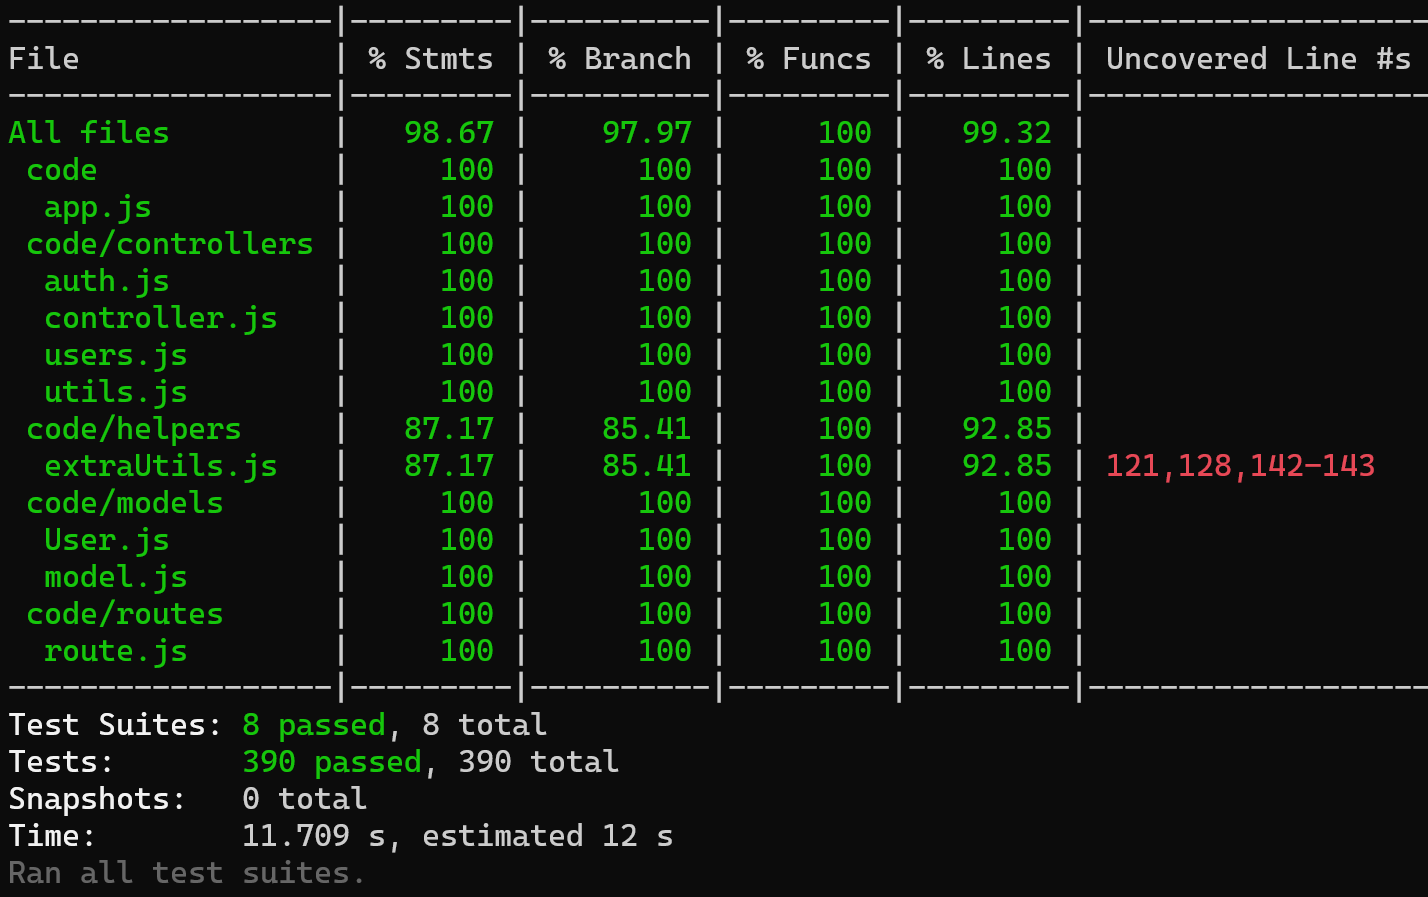
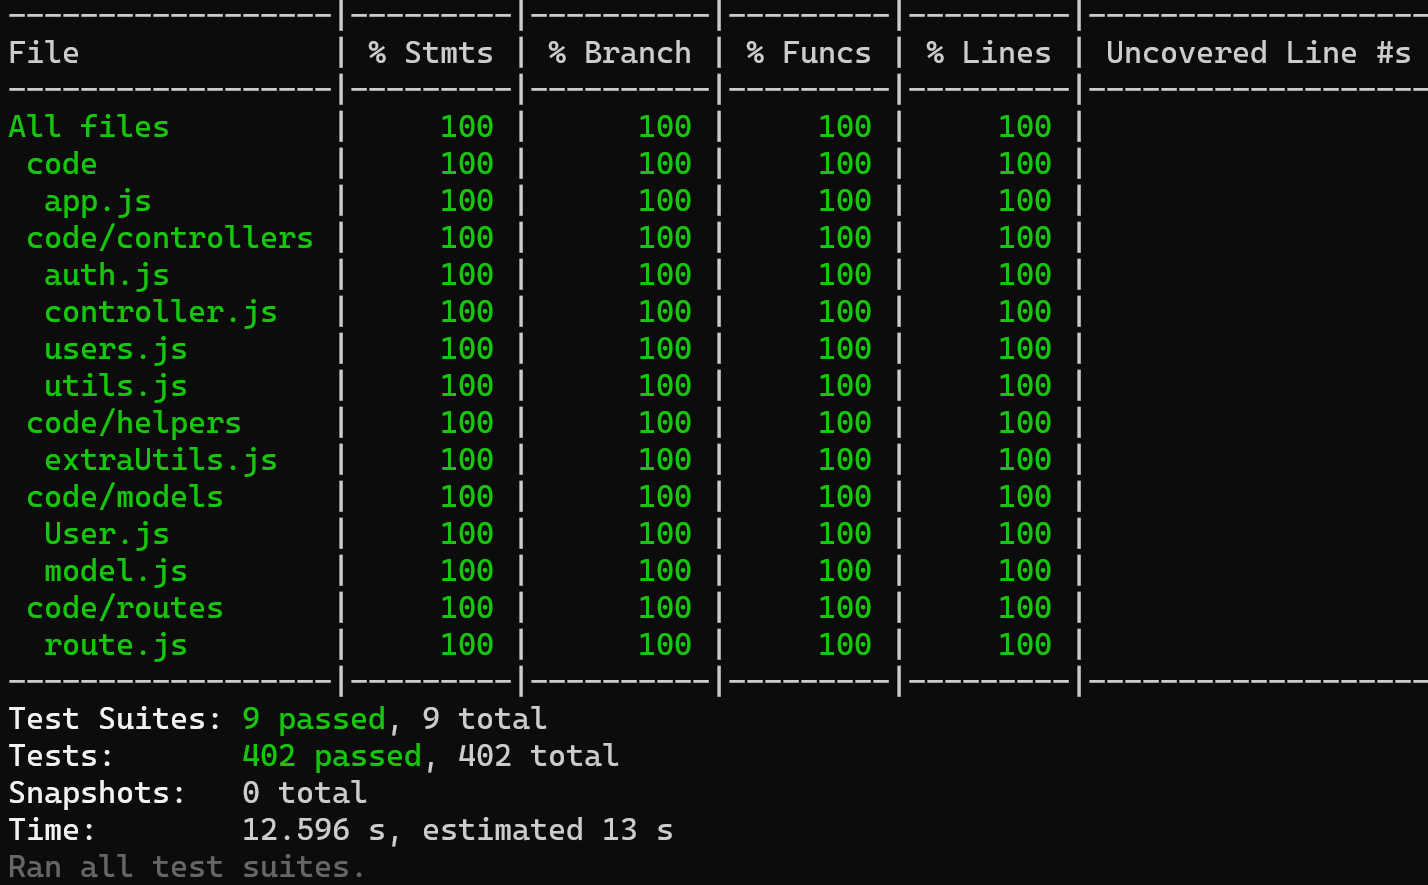
100 % coverage , updated screenshot

Changed region(s): [[0.0, 0.0, 1.0, 1.0], [0.7703, 0.4881, 0.9552, 0.5492]]

diff --git a/code/test/extraUtils.unit.test.js b/code/test/extraUtils.unit.test.js
@@ -1,0 +1,104 @@
+
+import "jest-extended"
+import { createValueTypeObject, validateValueType, validateValueTypes } from '../helpers/extraUtils.js'
+
+import validator from "validator";
+
+//jest.mock('validator');
+beforeAll(async () => {
+
+});
+
+afterAll(async () => {
+
+});
+
+//necessary setup to ensure that each test can insert the data it needs
+beforeEach(async () => {
+    jest.resetAllMocks();
+})
+afterEach(async () => {
+
+})
+describe("createValueTypeObject  ", () => {
+    test('should create the object', () => {
+        const result = createValueTypeObject()
+    });
+});
+
+describe("validateValueType ", () => {
+
+    test('should reject string validation for non string type', () => {
+        const result = validateValueType({ value: 123, type: 'string' });
+       //console.log(result)
+        expect(result).toEqual({ flag: false, cause: expect.any(String) });
+    })
+
+    test('should reject non array string array ', () => {
+        const result = validateValueType({ value: {}, type: 'stringArray' });
+       //console.log(result)
+        expect(result).toEqual({ flag: false, cause: expect.any(String) });
+    })
+
+    test('should reject unknown type', () => {
+        const result = validateValueType({ value: {}, type: 'random' });
+       //console.log(result)
+        expect(result).toEqual({ flag: false, cause: expect.any(String) });
+    })
+
+    test('should catch error', () => {
+        jest.spyOn(validator, 'isEmail').mockImplementationOnce(() => { throw new Error("some error") });
+        const result = validateValueType({ value: "email", type: 'email' });
+       //console.log(result)
+        expect(result).toEqual({ flag: false, cause: expect.any(String) });
+    })
+
+    test('should reject invalid string for amount validation', () => {
+        const result = validateValueType({ value: "", type: 'amount' });
+       //console.log(result)
+        expect(result).toEqual({ flag: false, cause: expect.any(String) });
+    })
+
+    test('should reject invalid string for amount validation', () => {
+        const result = validateValueType({ value: "", type: 'amount' });
+       //console.log(result)
+        expect(result).toEqual({ flag: false, cause: expect.any(String) });
+    })
+
+    test('should reject invalid string for amount validation even if regex passed', () => {
+        jest.spyOn(RegExp.prototype, 'test').mockReturnValueOnce(true);
+        const result = validateValueType({ value: "a-10.2e10a", type: 'amount' });
+       //console.log(result)
+        expect(RegExp.prototype.test).toHaveBeenCalledWith("a-10.2e10a");
+        expect(result).toEqual({ flag: false, cause: expect.any(String) });
+    })
+
+    test('should pass float', () => {
+        //jest.spyOn(RegExp.prototype, 'test').mockReturnValueOnce(false);
+        const result = validateValueType({ value: "-10.2e10", type: 'amount' });
+       //console.log(result)
+        expect(RegExp.prototype.test).toHaveBeenCalledWith("-10.2e10");
+        expect(result).toEqual({ flag: true, cause: expect.any(String) });
+    })
+
+    test('should reject non array for email validation', () => {
+        const result = validateValueType({ value: "", type: 'emailArray' });
+       //console.log(result)
+        expect(result).toEqual({ flag: false, cause: expect.any(String) });
+    })
+
+    test('should reject empty array for email validation', () => {
+        const result = validateValueType({ value: [], type: 'emailArray' });
+       //console.log(result)
+        expect(result).toEqual({ flag: false, cause: expect.any(String) });
+    })
+
+})
+
+describe("validateValueTypes ", () => {
+    test('should catch error', () => {
+        const result = validateValueTypes({ value: "email", type: 'email' });
+       //console.log(result)
+        expect(result).toEqual({ flag: false, cause: expect.any(String) });
+    })
+})
